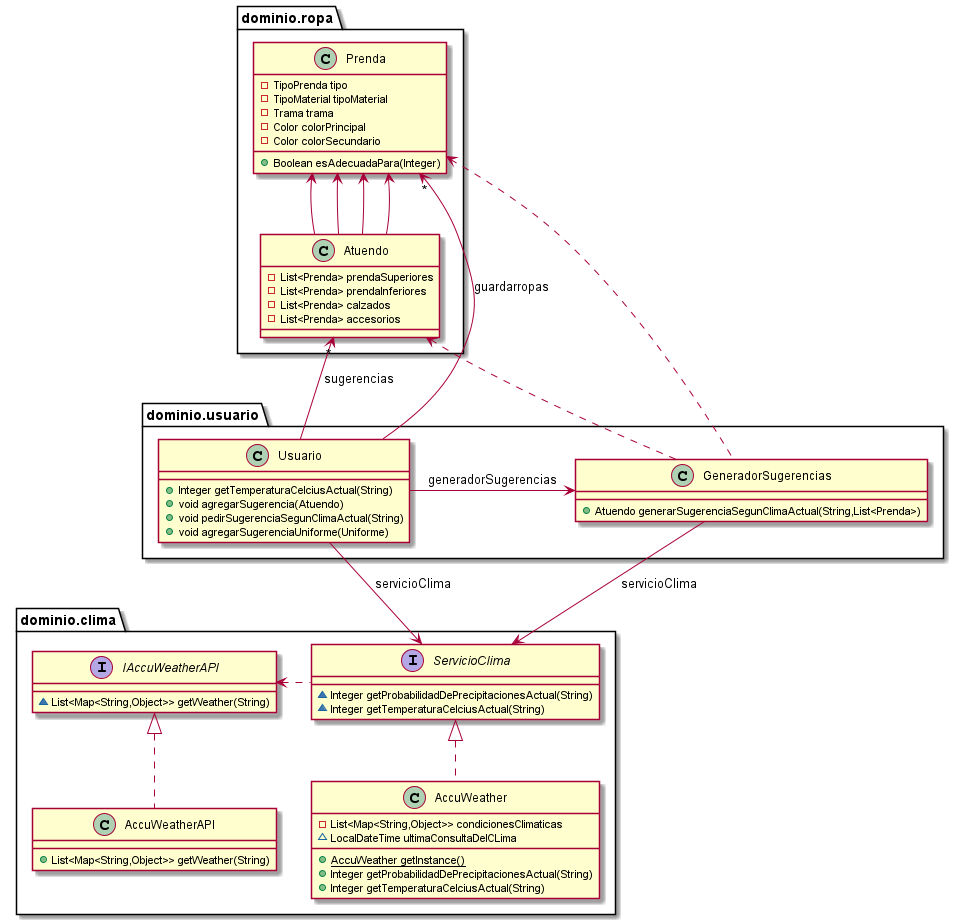
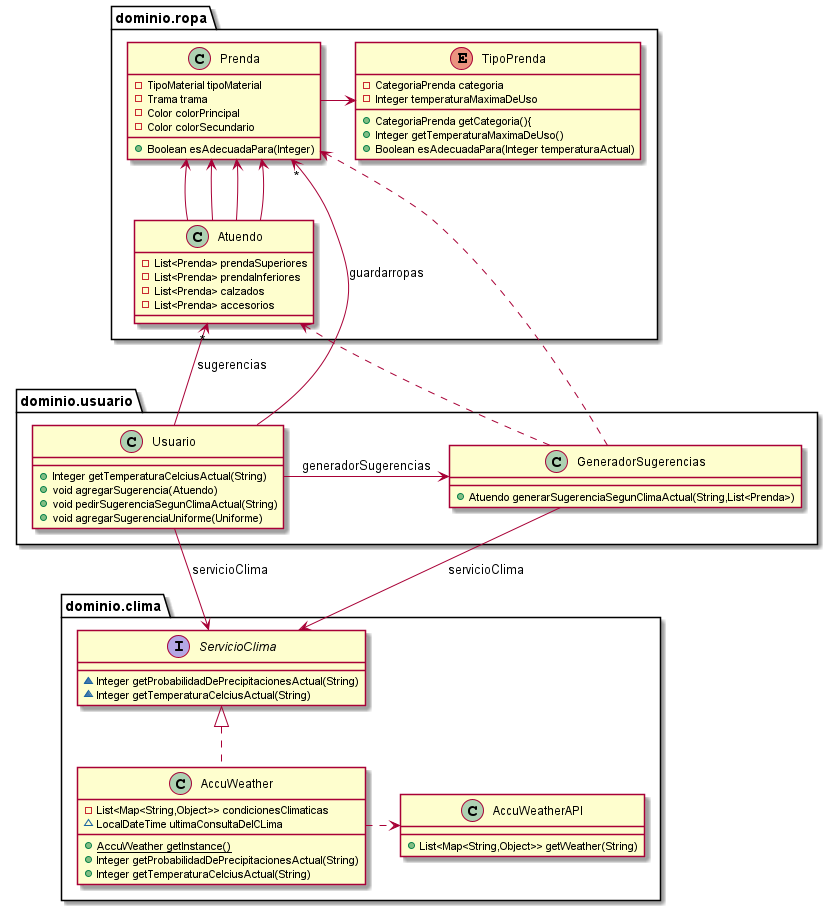
Cambio un detalle de los diagramas

diff --git a/src/main/java/dominio/clima/AccuWeatherAPI.java b/src/main/java/dominio/clima/AccuWeatherAPI.java
@@ -2,9 +2,8 @@ package dominio.clima;
 
 import java.util.*;
 
-public final class AccuWeatherAPI implements IAccuWeatherAPI {
+public final class AccuWeatherAPI {
 
-  @Override
   public final List<Map<String, Object>> getWeather(String ciudad) {
     return Arrays.asList(new HashMap<String, Object>() {{
       put("DateTime", "2019-05-03T01:00:00-03:00");
